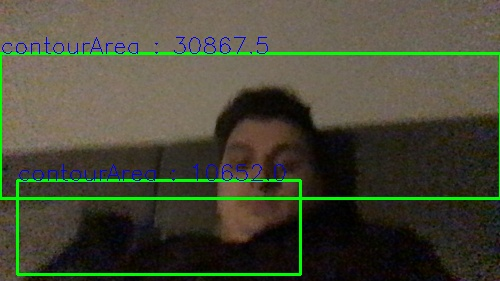
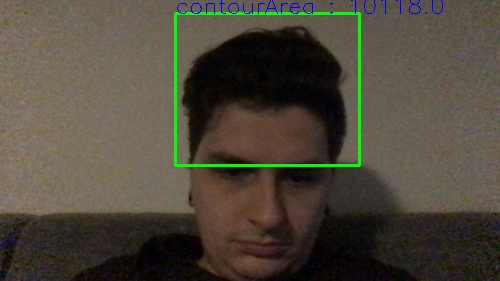
gui fix

diff --git a/gui/guiwindow.py b/gui/guiwindow.py
@@ -66,7 +66,7 @@ class GuiWindow(App):
         self.fullLayout = BoxLayout(orientation='vertical')                                        
         self.imgLayout = BoxLayout(orientation='horizontal',size=(self.wid.height/3,self.wid.width/3))
         self.imgLayout.add_widget(self.RealTimeImageOfProduct)
-        self.productFoundBox = BoxLayout(orientation='vertical',size=(self.wid.height/3,self.wid.width/3),padding=50)
+        self.productFoundBox = BoxLayout(orientation='vertical',size=(self.wid.height/3,self.wid.width/3),padding=20)
         self.productFoundBox.add_widget(self.lblProductName)
         self.productFoundBox.add_widget(self.lblAmountOfStock)
         self.imgLayout.add_widget(self.productFoundBox)

diff --git a/objectTracking.py b/objectTracking.py
@@ -11,7 +11,7 @@ class ObjectTracker(object):
 		self.minArea = minArea
 		self.maxArea = maxArea
 		self.fps = fps
-		self.vs = VideoStream(usePiCamera=True).start()
+		self.vs = VideoStream(usePiCamera=False).start()
 		# initialize the first frame in the video stream
 		self.firstFrame = None
 		self.d = None
